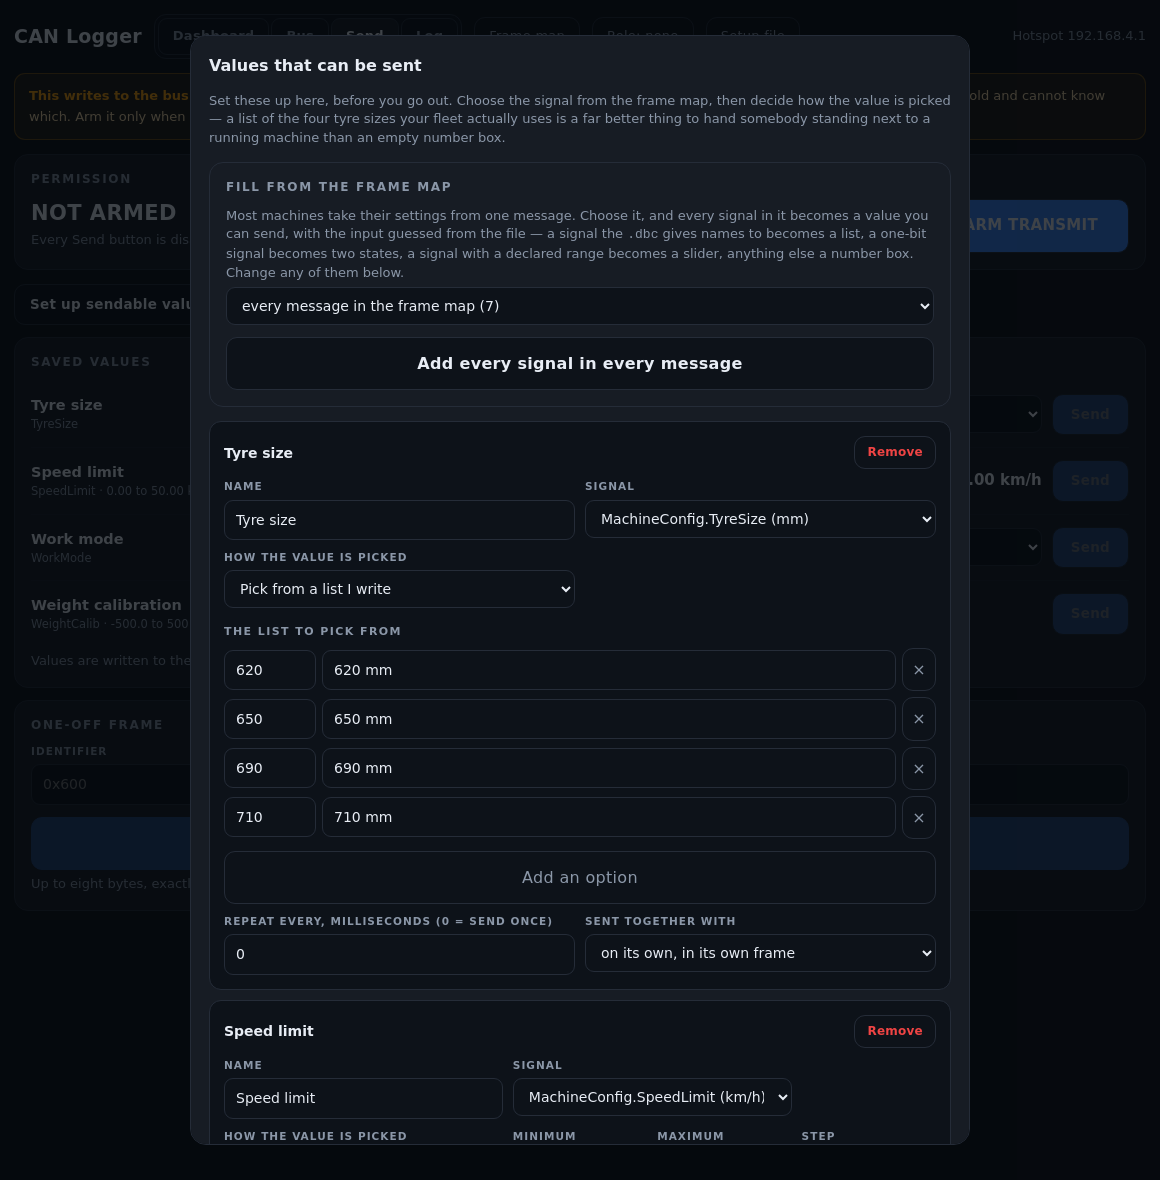
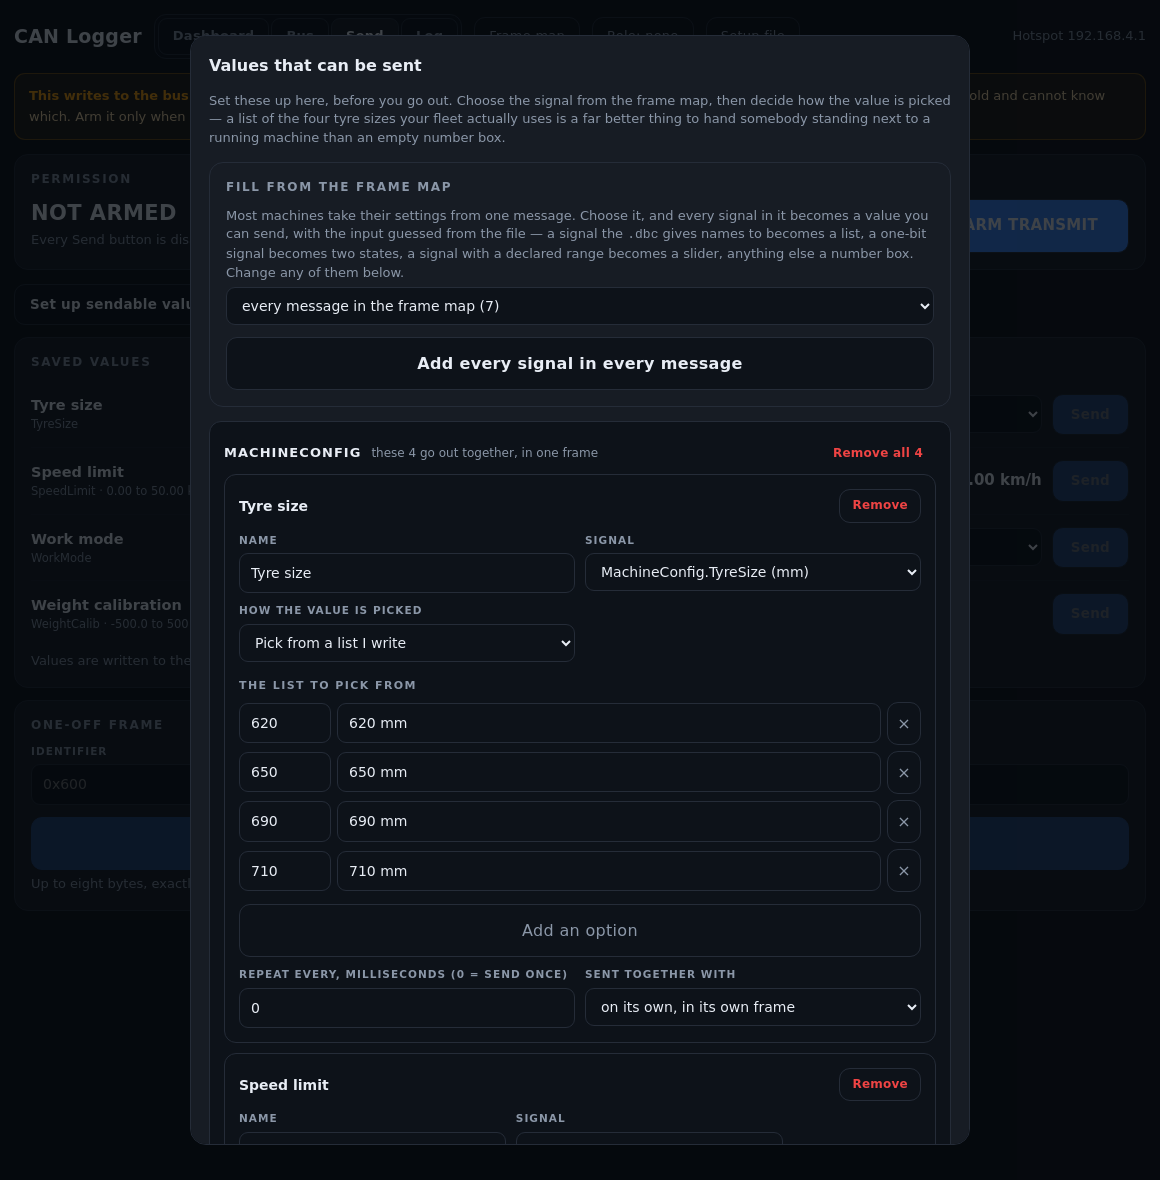
Box a message's sendable values together in the editor, like the Send tab
Four cards in a row with four Remove buttons invites you to treat them as four
independent things. On the wire they are one frame, and the Send tab has always
drawn them that way. The editor now does too: one box per message, the message
name and what the grouping means in its header, and a Remove all N on it.

Inside the box the rule follows what the frame actually allows.

  - Multiplexed payloads get NO individual Remove. The group's button is the
    only one, because keeping some payloads of a multiplexed command describes
    only part of it.
  - A plain message whose signals go out together keeps a Remove on each value
    as well: wanting three of its four signals is a legitimate thing to want,
    and refusing it would be inventing a rule the frame does not impose.

This also settles a difference between the two desk tools that looked like a
bug and was not quite one. MachineConfig in examples/machine.dbc, and ABS_Cmd
in a typical tester file, have overlapping signals but no M / m0 markers - so
the parser is right that they are not multiplexed, and right to let their
values be removed one at a time. What was actually wrong is that the Send tab
called them a group and the editor did not, so the same four values looked like
a set on one screen and four strangers on the other.

Verified through the real buttons: mux group Remove-all clears the set; a plain
card Remove takes only that value; a plain group Remove-all clears the message.
[…]

diff --git a/src/webpage.cpp b/src/webpage.cpp
@@ -256,6 +256,16 @@ input[type=checkbox]{width:auto;accent-color:var(--acc)}
   padding:11px 0 4px}
 .sendgroup .ghead b{font-size:13px;letter-spacing:.08em;text-transform:uppercase}
 .sendgroup .ghead span{font-size:12px;color:var(--dim)}
+/* The group's own Remove, in the editor. Compact and pushed to the right, like
+   the one on each card - left at full width it reads as the group's main
+   action, which on a screen full of values it very much is not. */
+.sendgroup .ghead button{width:auto;margin:0 0 0 auto;padding:7px 12px;
+  font-size:12px;color:var(--bad);border-color:transparent;background:transparent}
+.sendgroup .ghead button:hover{border-color:var(--bad)}
+/* Editor groups only: let the explanation take the space it needs so the button
+   stays on the first line with the name, instead of being pushed to a third. */
+.txgroup .ghead{align-items:center}
+.txgroup .ghead span{flex:1 1 240px}
 .sendgroup .sendrow{border-bottom:1px dashed #1b212b}
 .sendgroup .sendrow:last-of-type{border-bottom:0}
 .sendrow .lbl em{font-style:normal;color:var(--acc)}
@@ -2521,37 +2531,76 @@ function renderTxEdit(){
       'Nothing set up yet. Press "Add a value" below.'));
   }
 
+  /* Values of one message are boxed together, the same way the Send tab boxes
+     them, because that is what they are on the wire: one frame. Seeing four
+     cards in a row with four Remove buttons invites you to treat them as four
+     independent things, which for a multiplexed set they are not. */
+  var byMsg = {};
+  keys.forEach(function(k){
+    var mn = TXED[k].sig ? msgOf(TXED[k].sig) : '';
+    if(mn) (byMsg[mn] = byMsg[mn] || []).push(k);
+  });
+  var wraps = {};
+
   keys.forEach(function(i){
     var t = TXED[i];
     var card = el('div', 'txcard');
 
+    var mates = muxSiblings(i);
+    var isMux = mates.length > 1;
+    var mname = t.sig ? msgOf(t.sig) : '';
+    var unit  = (mname && byMsg[mname] && byMsg[mname].length > 1)
+                ? byMsg[mname] : null;
+
+    /* The box, built once for the first value of the message. */
+    if(unit && !wraps[mname]){
+      var wrap = el('div', 'sendgroup txgroup');
+      var gh = el('div', 'ghead');
+      gh.appendChild(el('b', null, mname));
+
+      var sel = '';
+      if(isMux){
+        DBC.m.forEach(function(m){
+          if(m.n !== mname) return;
+          m.s.forEach(function(sg2){ if(sg2.mx === -2) sel = sg2.n; });
+        });
+      }
+      gh.appendChild(el('span', null, isMux
+        ? 'these ' + unit.length + ' are payloads of one multiplexed frame, '
+          + 'chosen by ' + (sel || 'a selector') + ' — they are added and '
+          + 'removed together'
+        : 'these ' + unit.length + ' go out together, in one frame'));
+
+      var gdel = el('button', null, 'Remove all ' + unit.length);
+      gdel.onclick = function(){
+        unit.forEach(function(k){ delete TXED[k]; });
+        renderTxEdit();
+      };
+      gh.appendChild(gdel);
+      wrap.appendChild(gh);
+      box.appendChild(wrap);
+      wraps[mname] = wrap;
+    }
+
     var head = el('div', 'head');
     head.appendChild(el('b', null, t.label || 'Untitled value'));
-    var mates = muxSiblings(i);
-    var del = el('button', null,
-                 mates.length > 1 ? 'Remove all ' + mates.length : 'Remove');
-    if(mates.length > 1){
-      del.title = 'The payloads of one multiplexed frame are kept as a set';
+
+    /* One Remove per value, EXCEPT in a multiplexed set: there the only honest
+       button is the group's, because keeping some payloads of a multiplexed
+       command describes only part of it. A plain group may be split - you may
+       genuinely want three of its four signals - so those keep theirs. */
+    if(!isMux){
+      var del = el('button', null, 'Remove');
+      del.onclick = function(){
+        delete TXED[i];
+        renderTxEdit();
+      };
+      head.appendChild(del);
     }
-    del.onclick = function(){
-      mates.forEach(function(k){ delete TXED[k]; });
-      renderTxEdit();
-    };
-    head.appendChild(del);
     card.appendChild(head);
 
-    if(mates.length > 1){
-      var mn = msgOf(t.sig);
-      var selName = '';
-      DBC.m.forEach(function(m){
-        if(m.n !== mn) return;
-        m.s.forEach(function(sg2){ if(sg2.mx === -2) selName = sg2.n; });
-      });
-      card.appendChild(el('div', 'sub',
-        'One of ' + mates.length + ' payloads of ' + mn + ', chosen by '
-        + (selName || 'a selector') + '. They are added and removed together, '
-        + 'because keeping some of them describes only part of the command.'));
-    }
+    /* What the set is gets said once, on the box's header, rather than being
+       repeated on every card inside it. */
 
     var f = el('div', 'fields');
     function field(lbl, key, type, span, attrs){
@@ -2772,7 +2821,7 @@ function renderTxEdit(){
 
     card.appendChild(f2);
 
-    box.appendChild(card);
+    (wraps[mname] || box).appendChild(card);
   });
 }
 

diff --git a/CHANGELOG.md b/CHANGELOG.md
@@ -62,6 +62,29 @@ A third route to the same broken set: a value whose message is no longer in the
 loaded map is not recognised as multiplexed either. The clearing above removes
 those values outright, so the case no longer arises.
 
+### The editor now boxes a message's values together, like the Send tab
+
+Four cards in a row with four Remove buttons invites you to treat them as four
+independent things. On the wire they are one frame, and the Send tab has always
+drawn them that way. The editor now does too: one box per message, the message
+name and what the grouping means in its header, and a **Remove all N** on the
+header.
+
+Inside the box the rule follows what the frame actually allows:
+
+- **Multiplexed payloads** have *no* individual Remove. The group's button is the
+  only one, because keeping some payloads of a multiplexed command describes only
+  part of it.
+- **A plain message whose signals go out together** keeps a Remove on each value
+  as well, because wanting three of its four signals is a legitimate thing to
+  want.
+
+Worth knowing when reading your own file: a message is only multiplexed if the
+`.dbc` says so with `M` and `m0`/`m1` markers. `MachineConfig` in the example and
+`ABS_Cmd` in a typical tester file have overlapping signals but no markers, so
+they are plain groups — they are sent whole, and their values may be removed one
+at a time.
+
 ### `customize.py` asked which .dbc to use
 
 It should never have. With no argument it now opens the page with no frame map

diff --git a/README.md b/README.md
@@ -1289,7 +1289,7 @@ translation units under `-Wall -Wextra`:
 
 ```
 RAM:   [==        ]  24.9% (used 81496 bytes from 327680 bytes)
-Flash: [======    ]  55.2% (used 1084601 bytes from 1966080 bytes)
+Flash: [======    ]  55.3% (used 1086745 bytes from 1966080 bytes)
 ```
 
 Flash sits at 55 % of one 1.9 MB app slot, so the OTA partition scheme still has
